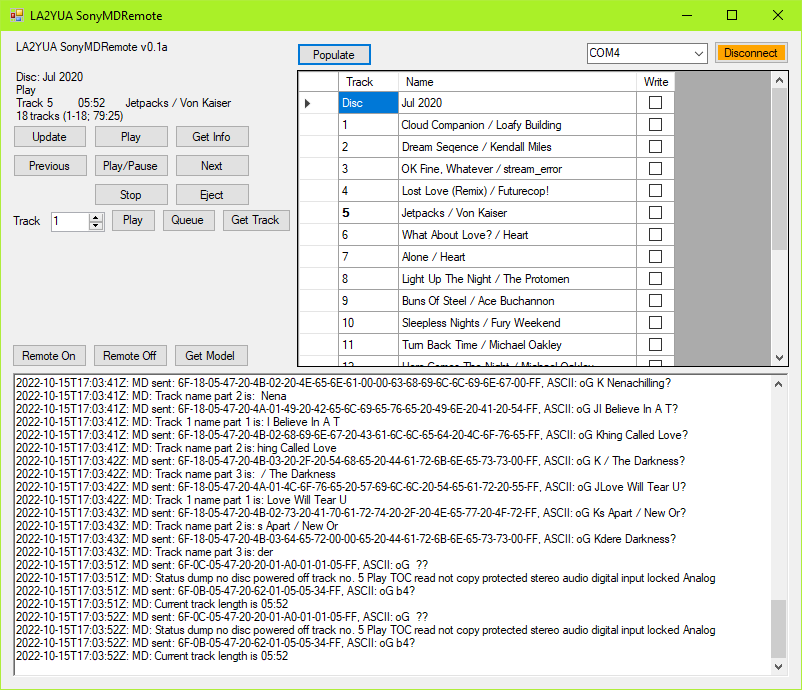
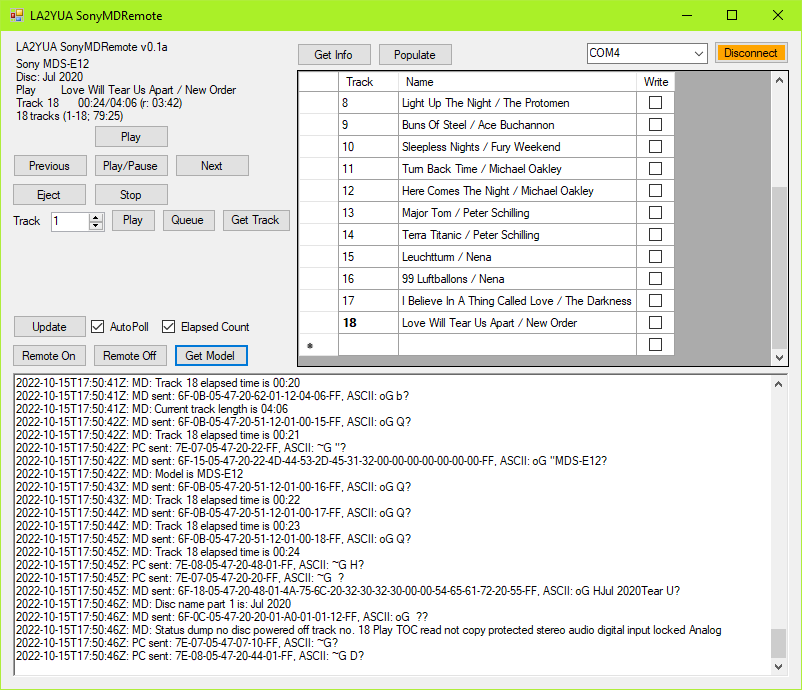
Added time-elapsed count option

diff --git a/SonyMDRemote.Designer.cs b/SonyMDRemote.Designer.cs
@@ -63,6 +63,9 @@
             this.trackno = new System.Windows.Forms.DataGridViewTextBoxColumn();
             this.tracktitle = new System.Windows.Forms.DataGridViewTextBoxColumn();
             this.write = new System.Windows.Forms.DataGridViewCheckBoxColumn();
+            this.checkBox1 = new System.Windows.Forms.CheckBox();
+            this.checkBox2 = new System.Windows.Forms.CheckBox();
+            this.label9 = new System.Windows.Forms.Label();
             ((System.ComponentModel.ISupportInitialize)(this.numericUpDown1)).BeginInit();
             ((System.ComponentModel.ISupportInitialize)(this.dataGridView1)).BeginInit();
             this.SuspendLayout();
@@ -214,14 +217,14 @@
             this.label3.AutoSize = true;
             this.label3.Location = new System.Drawing.Point(12, 52);
             this.label3.Name = "label3";
-            this.label3.Size = new System.Drawing.Size(41, 13);
+            this.label3.Size = new System.Drawing.Size(50, 13);
             this.label3.TabIndex = 13;
-            this.label3.Text = "Playing";
+            this.label3.Text = "Playing : ";
             this.label3.Click += new System.EventHandler(this.label3_Click);
             // 
             // button9
             // 
-            this.button9.Location = new System.Drawing.Point(174, 152);
+            this.button9.Location = new System.Drawing.Point(11, 152);
             this.button9.Name = "button9";
             this.button9.Size = new System.Drawing.Size(75, 23);
             this.button9.TabIndex = 14;
@@ -231,7 +234,7 @@
             // 
             // button10
             // 
-            this.button10.Location = new System.Drawing.Point(174, 94);
+            this.button10.Location = new System.Drawing.Point(296, 12);
             this.button10.Name = "button10";
             this.button10.Size = new System.Drawing.Size(75, 23);
             this.button10.TabIndex = 15;
@@ -241,7 +244,7 @@
             // 
             // button11
             // 
-            this.button11.Location = new System.Drawing.Point(12, 94);
+            this.button11.Location = new System.Drawing.Point(12, 284);
             this.button11.Name = "button11";
             this.button11.Size = new System.Drawing.Size(74, 23);
             this.button11.TabIndex = 16;
@@ -320,9 +323,9 @@
             this.label6.AutoSize = true;
             this.label6.Location = new System.Drawing.Point(74, 65);
             this.label6.Name = "label6";
-            this.label6.Size = new System.Drawing.Size(42, 13);
+            this.label6.Size = new System.Drawing.Size(82, 13);
             this.label6.TabIndex = 23;
-            this.label6.Text = "MM:SS";
+            this.label6.Text = "MM:SS/MM:SS";
             // 
             // label7
             // 
@@ -337,7 +340,7 @@
             // label8
             // 
             this.label8.AutoSize = true;
-            this.label8.Location = new System.Drawing.Point(122, 65);
+            this.label8.Location = new System.Drawing.Point(57, 52);
             this.label8.Name = "label8";
             this.label8.Size = new System.Drawing.Size(61, 13);
             this.label8.TabIndex = 25;
@@ -362,7 +365,7 @@
             // 
             // button15
             // 
-            this.button15.Location = new System.Drawing.Point(296, 12);
+            this.button15.Location = new System.Drawing.Point(377, 12);
             this.button15.Name = "button15";
             this.button15.Size = new System.Drawing.Size(75, 23);
             this.button15.TabIndex = 15;
@@ -392,11 +395,45 @@
             this.write.Name = "write";
             this.write.Width = 38;
             // 
+            // checkBox1
+            // 
+            this.checkBox1.AutoSize = true;
+            this.checkBox1.Location = new System.Drawing.Point(90, 288);
+            this.checkBox1.Name = "checkBox1";
+            this.checkBox1.Size = new System.Drawing.Size(65, 17);
+            this.checkBox1.TabIndex = 27;
+            this.checkBox1.Text = "AutoPoll";
+            this.checkBox1.UseVisualStyleBackColor = true;
+            this.checkBox1.CheckedChanged += new System.EventHandler(this.checkBox1_CheckedChanged);
+            // 
+            // checkBox2
+            // 
+            this.checkBox2.AutoSize = true;
+            this.checkBox2.Location = new System.Drawing.Point(161, 288);
+            this.checkBox2.Name = "checkBox2";
+            this.checkBox2.Size = new System.Drawing.Size(95, 17);
+            this.checkBox2.TabIndex = 28;
+            this.checkBox2.Text = "Elapsed Count";
+            this.checkBox2.UseVisualStyleBackColor = true;
+            this.checkBox2.CheckedChanged += new System.EventHandler(this.checkBox2_CheckedChanged);
+            // 
+            // label9
+            // 
+            this.label9.AutoSize = true;
+            this.label9.Location = new System.Drawing.Point(12, 26);
+            this.label9.Name = "label9";
+            this.label9.Size = new System.Drawing.Size(34, 13);
+            this.label9.TabIndex = 29;
+            this.label9.Text = "Sony ";
+            // 
             // SonyMDRemote
             // 
             this.AutoScaleDimensions = new System.Drawing.SizeF(6F, 13F);
             this.AutoScaleMode = System.Windows.Forms.AutoScaleMode.Font;
             this.ClientSize = new System.Drawing.Size(800, 658);
+            this.Controls.Add(this.label9);
+            this.Controls.Add(this.checkBox2);
+            this.Controls.Add(this.checkBox1);
             this.Controls.Add(this.dataGridView1);
             this.Controls.Add(this.label8);
             this.Controls.Add(this.label7);
@@ -471,6 +508,9 @@
         private System.Windows.Forms.DataGridViewTextBoxColumn trackno;
         private System.Windows.Forms.DataGridViewTextBoxColumn tracktitle;
         private System.Windows.Forms.DataGridViewCheckBoxColumn write;
+        private System.Windows.Forms.CheckBox checkBox1;
+        private System.Windows.Forms.CheckBox checkBox2;
+        private System.Windows.Forms.Label label9;
     }
 }
 

diff --git a/SonyMDRemote.cs b/SonyMDRemote.cs
@@ -167,8 +167,18 @@ namespace SonyMDRemote
 
         private void timer1_Maintenance_Tick(object sender, EventArgs e)
         {
-            timer1_Maintenance.Interval = 10000;
+            if (checkBox1.Checked)
+            {
+                timer1_Maintenance.Interval = 5000;
+                DoUpdateTask();
+            }
+            else
+            {
+                timer1_Maintenance.Interval = 10000;
+            }
             Update_COM_List();
+
+
         }
 
         private void Form1_FormClosing(object sender, FormClosingEventArgs e)
@@ -448,6 +458,8 @@ namespace SonyMDRemote
         byte _currentrack = 1;
         byte _packetlen = 0;
         int _infocounter = -1;
+        byte _currtracklen_min = 0;
+        byte _currtracklen_sec = 0;
         string discname;
 
         // list of track names
@@ -680,6 +692,7 @@ namespace SonyMDRemote
                     {
                         string modelname = TrimNonAscii(DecodeAscii(ref ArrRep, 6));
                         AppendLog("MD: Model is {0}", modelname);
+                        label9.Text = "Sony " + modelname;
                     }
 
                     // 7.14 REC DATA DATA
@@ -752,7 +765,15 @@ namespace SonyMDRemote
                         byte TrackNo = ArrRep[6];
                         byte Min = ArrRep[8];
                         byte Sec = ArrRep[9];
+
+                        TimeSpan ts_track = new TimeSpan(0, _currtracklen_min, _currtracklen_sec);
+                        TimeSpan ts_elapsed = new TimeSpan(0, Min, Sec);
+                        TimeSpan remainingtime = ts_track - ts_elapsed;
+
                         AppendLog("MD: Track {0} elapsed time is {1:00}:{2:00}", TrackNo, Min, Sec);
+                        label6.Text = String.Format("{0:00}:{1:00}/{2:00}:{3:00} (r: {4:00}:{5:00})", Min, Sec, 
+                            _currtracklen_min, _currtracklen_sec, 
+                            remainingtime.Minutes, remainingtime.Seconds);
                     }
 
                     // 7.19 REC REMAIN
@@ -818,8 +839,11 @@ namespace SonyMDRemote
                         {
                             byte Min = ArrRep[8];
                             byte Sec = ArrRep[9];
+                            _currtracklen_min = Min;
+                            _currtracklen_sec = Sec;
                             AppendLog("MD: Current track length is {0:00}:{1:00}", Min, Sec);
-                            label6.Text = String.Format("{0:00}:{1:00}", Min, Sec);
+                            if (!checkBox2.Checked)
+                                label6.Text = String.Format("{0:00}:{1:00}", Min, Sec);
                         }
                     }
 
@@ -996,18 +1020,32 @@ namespace SonyMDRemote
 
         private void button10_Click(object sender, EventArgs e)
         {
+            checkBox1.Checked = false;
+            checkBox2.Checked = false;
             // reset list of names
             _infocounter = 0;
             tracknames.Clear();
-            Transmit_MDS_Message(MDS_TX_ReqDiscAndTrackNames, delay:2000);
+            Transmit_MDS_Message(MDS_TX_DisableElapsedTimeTransmit);
+            Transmit_MDS_Message(MDS_TX_ReqDiscAndTrackNames, delay:12000);
+        }
+
+        private void DoUpdateTask()
+        {
+            Transmit_MDS_Message(MDS_TX_ReqDiscName);
+            Transmit_MDS_Message(MDS_TX_ReqStatus);
+            if (checkBox2.Checked)
+            {
+                Transmit_MDS_Message(MDS_TX_EnableElapsedTimeTransmit);
+            }
+            else
+                Transmit_MDS_Message(MDS_TX_DisableElapsedTimeTransmit);
+            //Transmit_MDS_Message(MDS_TX_ReqTrackTime, _currentrack);
+            //Transmit_MDS_Message(MDS_TX_ReqTOCData);
         }
 
         private void button11_Click(object sender, EventArgs e)
         {
-            Transmit_MDS_Message(MDS_TX_ReqDiscName);
-            Transmit_MDS_Message(MDS_TX_ReqStatus);
-            //Transmit_MDS_Message(MDS_TX_ReqTrackTime, _currentrack);
-            //Transmit_MDS_Message(MDS_TX_ReqTOCData);
+            DoUpdateTask();
         }
 
         private void button12_Click(object sender, EventArgs e)
@@ -1063,6 +1101,20 @@ namespace SonyMDRemote
         private void label7_Click(object sender, EventArgs e)
         {
             Transmit_MDS_Message(MDS_TX_ReqDiscName);
+        }
+
+        private void checkBox1_CheckedChanged(object sender, EventArgs e)
+        {
+            if (checkBox1.Checked)
+            {
+                timer1_Maintenance.Interval = 5000;
+                DoUpdateTask();
+            }
+        }
+
+        private void checkBox2_CheckedChanged(object sender, EventArgs e)
+        {
+            DoUpdateTask();
         }
     }
 }
